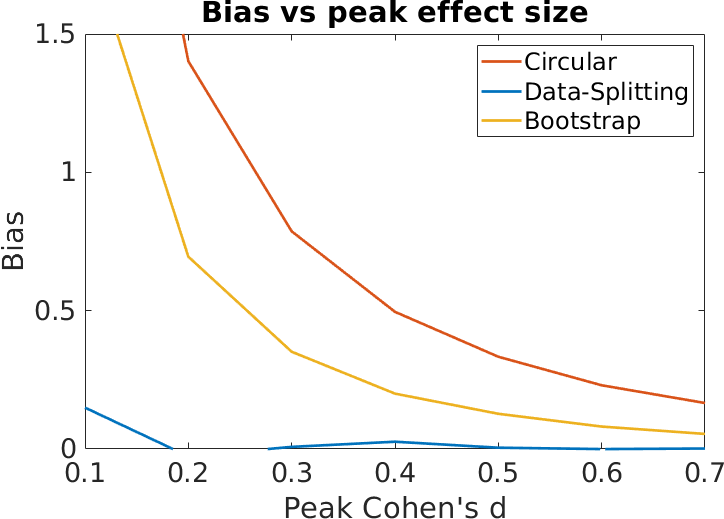
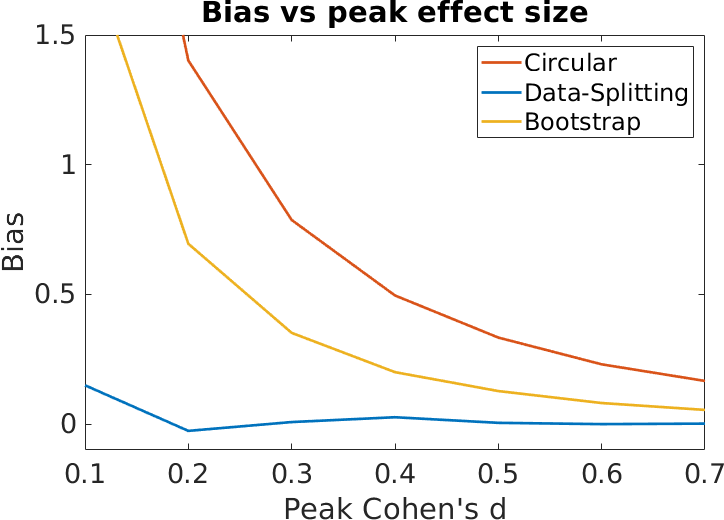
backup

diff --git a/ResultsFigures/VarSimsFigures/VarSimsFigurescode.m b/ResultsFigures/VarSimsFigures/VarSimsFigurescode.m
@@ -101,7 +101,7 @@ for type = {'meanSD','t4lm', 'R250', 'R2100', 'tstat'}
         xlim([ES_values(1),ES_values(end)])
         title('Bias vs peak effect size')
         if strcmp(typo, 't4lm')
-            ylim([0,1.5]);
+            ylim([-0.1,1.5]);
         elseif strcmp(typo, 'meanSD')
             ylim([-0.1,2.2]);
             title('Bias vs 1/\sigma')
